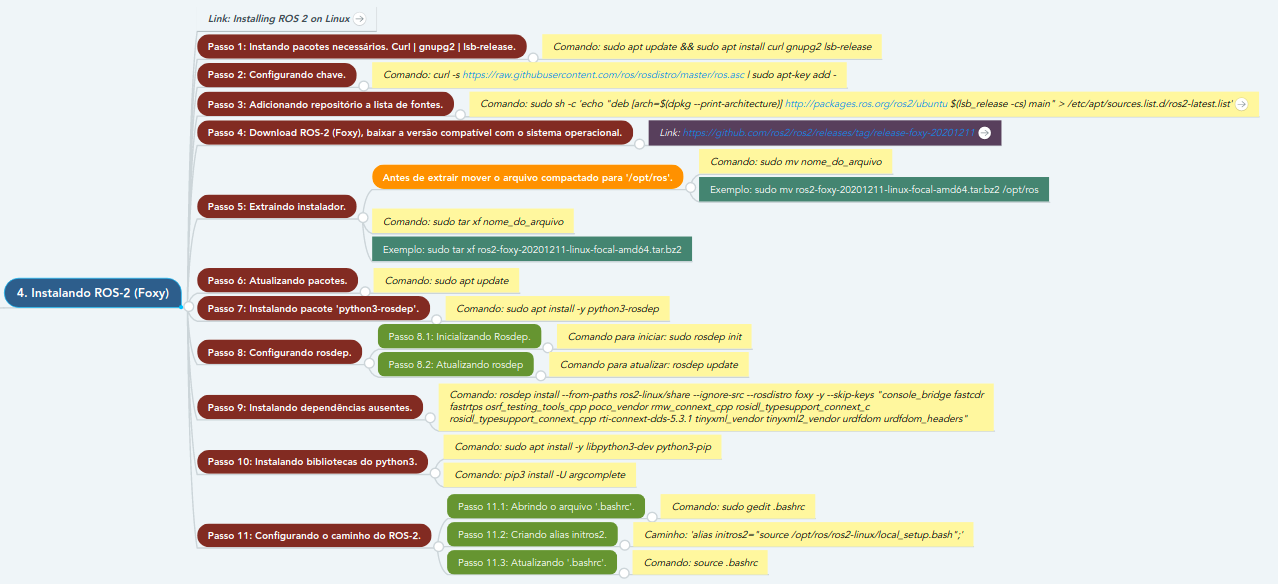
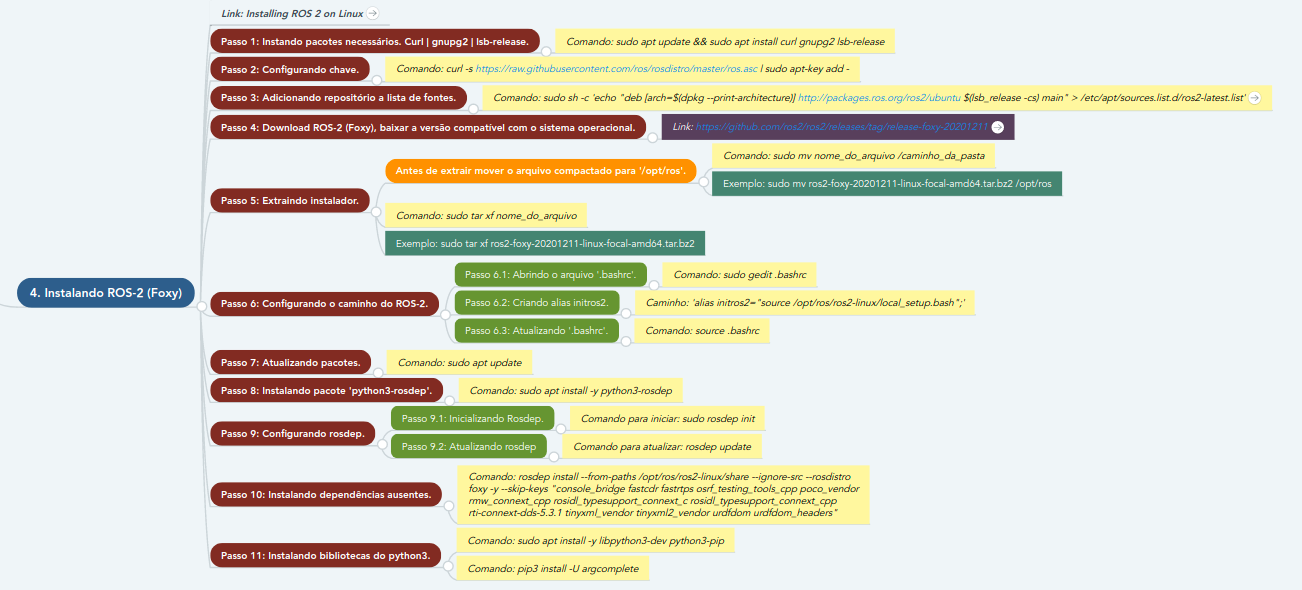
Realizando modificações

diff --git a/README.md b/README.md
@@ -72,55 +72,55 @@ Exemplo:
 sudo tar xf ros2-foxy-20201211-linux-focal-amd64.tar.bz2
 ```
 
-**Passo 6:** Atualizando pacotes.
+**Passo 6:** Configurando o caminho do ROS-2.
+
+*Passo 6.1:* Abrindo o arquivo '.bashrc'.
+```bash
+sudo gedit .bashrc
+```
+
+*Passo 6.2:* Criando alias initros2.
+```bash
+alias initros2="source /opt/ros/ros2-linux/local_setup.bash";
+```
+
+*Passo 6.3:* Atualizando '.bashrc'.
+```bash
+source .bashrc
+```
+
+**Passo 7:** Atualizando pacotes.
 ```bash
 sudo apt update
 ```
 
-**Passo 7:** Instalando pacote 'python3-rosdep'.
+**Passo 8:** Instalando pacote 'python3-rosdep'.
 ```bash
 sudo apt install -y python3-rosdep
 ```
 
-**Passo 8:** Configurando Rosdep.
+**Passo 9:** Configurando Rosdep.
 
-*Passo 8.1:* Inicializando Rosdep.
+*Passo 9.1:* Inicializando Rosdep.
 ```bash
 sudo rosdep init
 ```
 
-*Passo 8.2:* Atualizando Rosdep.
+*Passo 9.2:* Atualizando Rosdep.
 ```bash
 rosdep update
 ```
 
-**Passo 9:** Instalando dependências ausentes.
+**Passo 10:** Instalando dependências ausentes.
 ```bash
-rosdep install --from-paths ros2-linux/share --ignore-src --rosdistro foxy -y --skip-keys "console_bridge fastcdr fastrtps osrf_testing_tools_cpp poco_vendor rmw_connext_cpp rosidl_typesupport_connext_c rosidl_typesupport_connext_cpp rti-connext-dds-5.3.1 tinyxml_vendor tinyxml2_vendor urdfdom urdfdom_headers"
+rosdep install --from-paths /opt/ros/ros2-linux/share --ignore-src --rosdistro foxy -y --skip-keys "console_bridge fastcdr fastrtps osrf_testing_tools_cpp poco_vendor rmw_connext_cpp rosidl_typesupport_connext_c rosidl_typesupport_connext_cpp rti-connext-dds-5.3.1 tinyxml_vendor tinyxml2_vendor urdfdom urdfdom_headers"
 ```
 
-**Passo 10:** Instalando bibliotecas do python3.
+**Passo 11:** Instalando bibliotecas do python3.
 ```bash
 sudo apt install -y libpython3-dev python3-pip
 ```
 
 ```bash
 pip3 install -U argcomplete
-```
-
-**Passo 11:** Configurando o caminho do ROS-2.
-
-*Passo 11.1:* Abrindo o arquivo '.bashrc'.
-```bash
-sudo gedit .bashrc
-```
-
-*Passo 11.2:* Criando alias initros2.
-```bash
-alias initros2="source /opt/ros/ros2-linux/local_setup.bash";
-```
-
-*Passo 11.3:* Atualizando '.bashrc'.
-```bash
-source .bashrc
 ```
